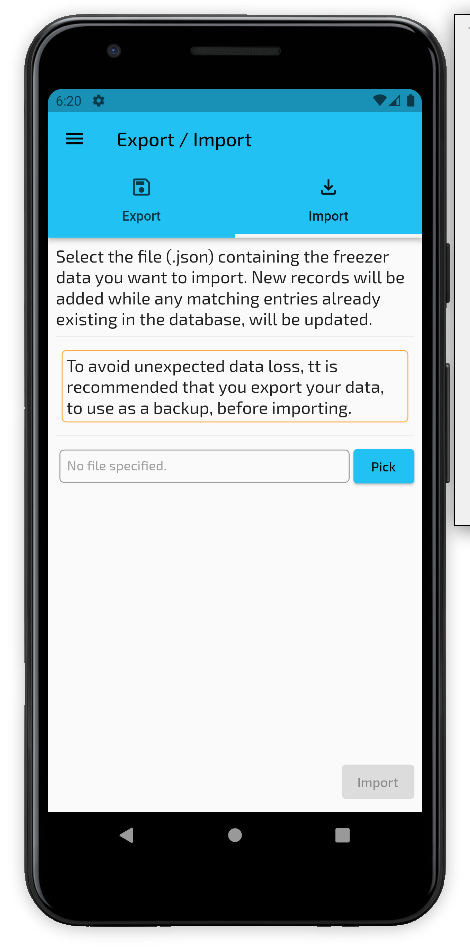
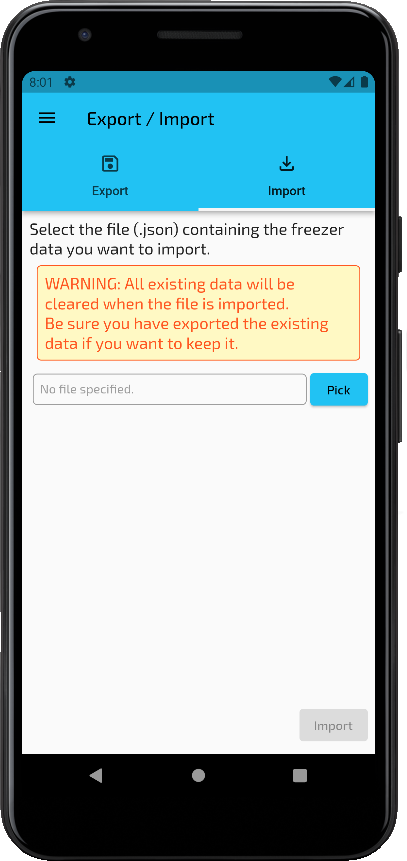
reworked the import to be less open

diff --git a/lib/widgets/import_tab.dart b/lib/widgets/import_tab.dart
@@ -30,25 +30,27 @@ class _ImportTabState extends State<ImportTab> with UiLoggy {
         children: [
           const Text(
             'Select the file (.json) containing the freezer data you want '
-            'to import. New records will be added while any matching entries '
-            'already existing in the database, will be updated.',
+            'to import.',
             style: TextStyle(fontSize: 18),
           ),
-          const Divider(),
           Container(
+            margin: const EdgeInsets.all(8),
+            padding: const EdgeInsets.all(8),
             decoration: BoxDecoration(
-              border: Border.all(color: Colors.orangeAccent),
+              color: Colors.yellow.shade100,
+              border: Border.all(color: Colors.deepOrange),
               borderRadius: BorderRadius.circular(5.0),
             ),
-            padding: const EdgeInsets.all(4),
-            margin: const EdgeInsets.all(6),
             child: const Text(
-              'To avoid unexpected data loss, tt is recommended that you export '
-              'your data, to use as a backup, before importing.',
-              style: TextStyle(fontSize: 18),
+              'WARNING: All existing data will be cleared when the file is '
+              'imported.\nBe sure you have exported the existing data if you want'
+              ' to keep it.',
+              style: TextStyle(
+                fontSize: 18,
+                color: Colors.deepOrange,
+              ),
             ),
           ),
-          const Divider(),
           Row(
             children: [
               Expanded(
@@ -98,12 +100,34 @@ class _ImportTabState extends State<ImportTab> with UiLoggy {
   }
 
   void _performImport(final BuildContext context) async {
-    loggy.info('Importing file ($_file).');
+    final bool confirmed = await showDialog(
+      context: context,
+      builder: (ctx) => AlertDialog(
+        title: const Text('Are you sure?'),
+        content: const Text(
+          'By importing data the data file you will be clearing out all of your existing data',
+        ),
+        actions: [
+          TextButton(
+            child: const Text('No'),
+            onPressed: () => Navigator.of(context).pop(false),
+          ),
+          TextButton(
+            child: const Text('Yes'),
+            onPressed: () => Navigator.of(context).pop(true),
+          ),
+        ],
+      ),
+    );
 
-    final content = await File(_file!).readAsString();
-    loggy.info('Imported: $content');
+    if (confirmed) {
+      loggy.info('Importing file ($_file).');
 
-    _import(context, content);
+      final content = await File(_file!).readAsString();
+      loggy.info('Imported: $content');
+
+      _import(context, content);
+    }
   }
 
   String _name(final String str, final int lastX) =>
@@ -112,19 +136,26 @@ class _ImportTabState extends State<ImportTab> with UiLoggy {
   Future<void> _import(final BuildContext context, final String json) async {
     if (json.isNotEmpty) {
       try {
+        final freezers = context.read<Freezers>();
+        final freezerItems = context.read<FreezerItems>();
+
+        // clear the existing data
+        await freezerItems.clear();
+        await freezers.clear();
+
         final map = jsonDecode(json);
 
-        await context.read<Freezers>().importing(
-              (map['freezers'] as List<dynamic>)
-                  .map((f) => Freezer.fromJson(f))
-                  .toList(),
-            );
+        await freezers.importing(
+          (map['freezers'] as List<dynamic>)
+              .map((f) => Freezer.fromJson(f))
+              .toList(),
+        );
 
-        await context.read<FreezerItems>().importing(
-              (map['freezerItems'] as List<dynamic>)
-                  .map((fi) => FreezerItem.fromJson(fi))
-                  .toList(),
-            );
+        await freezerItems.importing(
+          (map['freezerItems'] as List<dynamic>)
+              .map((fi) => FreezerItem.fromJson(fi))
+              .toList(),
+        );
 
         showMessageSnack(context, 'The data has been imported.');
       } catch (ex) {

diff --git a/lib/providers/freezer_items.dart b/lib/providers/freezer_items.dart
@@ -115,21 +115,18 @@ class FreezerItems with ChangeNotifier, UiLoggy {
     });
   }
 
-  Future<void> importing(final List<FreezerItem> items) async {
-    int created = 0;
-    int updated = 0;
+  Future<void> clear() async {
+    await FreezerItemsDb.deleteAll();
+    _freezerItems.clear();
+    loggy.info('Cleared all.');
+  }
 
+  Future<void> importing(final List<FreezerItem> items) async {
     for (var f in items) {
-      if (_notExisting(f.id!)) {
-        await _create(f);
-        created++;
-      } else {
-        await _update(f);
-        updated++;
-      }
+      await _create(f);
     }
 
-    loggy.info('Imported $created new items and $updated updated items.');
+    loggy.info('Imported ${items.length} freezer items.');
     notifyListeners();
   }
 

diff --git a/lib/providers/freezers.dart b/lib/providers/freezers.dart
@@ -72,21 +72,18 @@ class Freezers with ChangeNotifier, UiLoggy {
     });
   }
 
-  Future<void> importing(final List<Freezer> items) async {
-    int created = 0;
-    int updated = 0;
+  Future<void> clear() async {
+    await FreezersDb.deleteAll();
+    _freezers.clear();
+    loggy.info('Cleared all.');
+  }
 
+  Future<void> importing(final List<Freezer> items) async {
     for (var f in items) {
-      if (_notExisting(f.id!)) {
         await _create(f);
-        created++;
-      } else {
-        await _update(f);
-        updated++;
-      }
     }
 
-    loggy.info('Imported $created new freezers and $updated updated freezers.');
+    loggy.info('Imported ${items.length} freezers.');
     notifyListeners();
   }
 

diff --git a/lib/db/freezers_db.dart b/lib/db/freezers_db.dart
@@ -55,6 +55,10 @@ class FreezersDb {
     );
   }
 
+  static Future<void> deleteAll() async {
+    await (await DatabaseAccessor.db.database).delete(_table);
+  }
+
   static Map<String, dynamic> _toMap(final Freezer freezer) => {
         'id': freezer.id,
         'description': freezer.description,

diff --git a/lib/db/freezer_items_db.dart b/lib/db/freezer_items_db.dart
@@ -56,6 +56,10 @@ class FreezerItemsDb {
     );
   }
 
+  static Future<void> deleteAll() async {
+    await (await DatabaseAccessor.db.database).delete(_table);
+  }
+
   static Map<String, dynamic> _toMap(final FreezerItem item) {
     return {
       'id': item.id,

diff --git a/docs/UserGuide.md b/docs/UserGuide.md
@@ -219,19 +219,9 @@ the selected folder with a date-stamped name (e.g. icebox-2021-12-13-0845.json).
 From the drawer, select the "Export / Import" entry and tap the "Import" tab. From here you can select a JSON file
 on the device containing the exported data you wish to import.
 
-> This may change 
-
 ![Deleting a freezer](screenshots/importing.png)
 
 After selecting the file, the "Import" button will be active. Tap the button to import your data.
 
---- 
-
-Screenshots:
-
-Overview:
-* [ ] image of freezer edit screen (general)
-* [ ] image of freezer item edit screen (general)
-* [ ] image of freezer item list with items of varying age (general)
-
+> Warning: The existing data in the app will be cleared and overwritten by the imported data.
 
